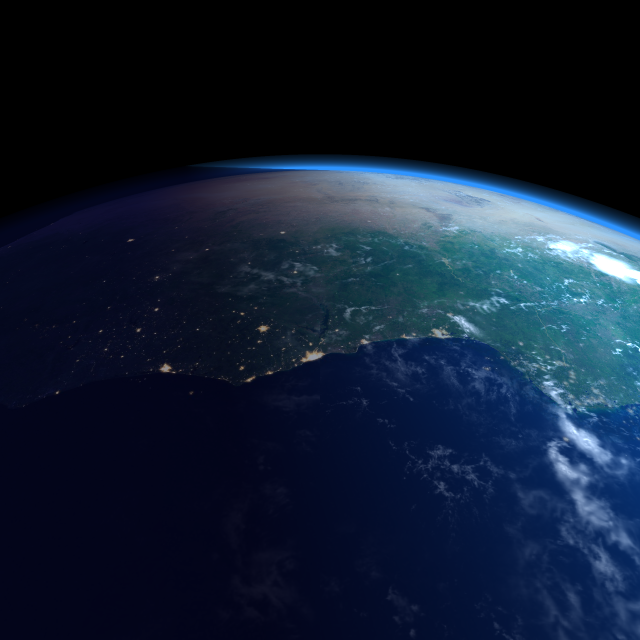
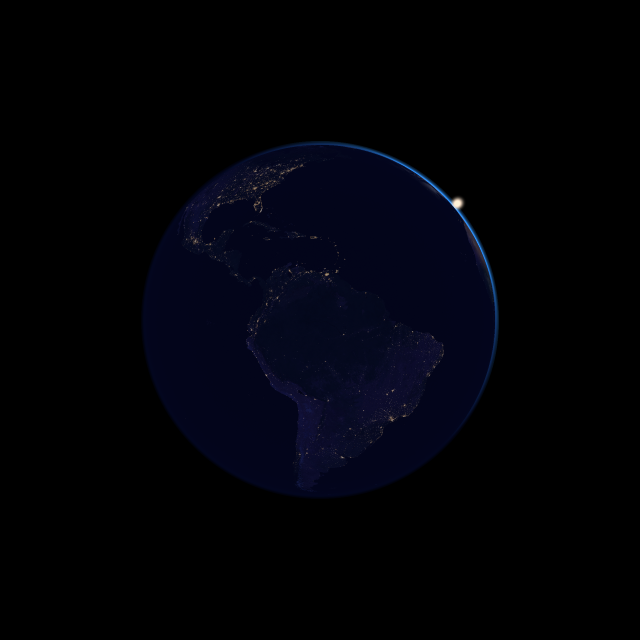
sun

diff --git a/render/renderer.go b/render/renderer.go
@@ -219,8 +219,8 @@ func RenderScene(
 // ApplyAtmosphereOverlay simulates atmospheric scattering along the view ray using ray tracing.
 // It accounts for Rayleigh scattering, Earth's shadow, backlighting, and rays passing through thin air.
 func ApplyAtmosphereOverlay(ctx *RayContext, base colors.Color4) colors.Color4 {
-	const H = 55            // scale height (km)
-	const maxHeight = 120.0 // max atmosphere extent (km)
+	const H = 55.0
+	const maxHeight = 120.0
 	const rayleighStrength = 0.2
 
 	atmoRadius := earth.Radius + maxHeight
@@ -234,65 +234,61 @@ func ApplyAtmosphereOverlay(ctx *RayContext, base colors.Color4) colors.Color4 {
 	// Step 2: Ray-ground intersection
 	hitEarth, tEntryEarth, _ := intersectSphereFull(ctx.Origin, ctx.RayDirection, earth.Radius)
 
-	// Clip to visible atmosphere
 	tMin := math.Max(0, tEntryAtmo)
 	tMax := tExitAtmo
 	if hitEarth && tEntryEarth > 0 && tEntryEarth < tMax {
 		tMax = tEntryEarth
 	}
 	if tMax <= tMin {
-		return base
+		viewDot := Clip(ctx.ViewDotNormal, 0, 1)
+		rim := math.Pow(1.0-viewDot, 3.0) * 0.6
+		return base.Add(ctx.theme.OuterRim.Scale(rim))
 	}
 
 	// Step 3: Shadow intersection
 	hitShadow, tShadowEntry, tShadowExit := IntersectShadowCylinder(ctx.Origin, ctx.RayDirection, ctx.SunDir, earth.Radius)
 
-	// Step 4: Compute total lit length
 	litLen := tMax - tMin
 	unlitLen := 0.0
-
 	if hitShadow {
 		shadowStart := math.Max(tMin, tShadowEntry)
 		shadowEnd := math.Min(tMax, tShadowExit)
 		if shadowEnd > shadowStart {
-			litLen -= (shadowEnd - shadowStart)
-			unlitLen += (shadowEnd - shadowStart)
+			shadowLen := shadowEnd - shadowStart
+			litLen -= shadowLen
+			unlitLen += shadowLen
 		}
 	}
 
-	// Invert and square to exaggerate rim region
-	viewAngle := Clip(ctx.ViewDotNormal, 0.0, 1.0)
-	rimAmount := math.Pow(1.0-Clip(viewAngle, 0.0, 1.0), 3.0) * 0.6
+	viewDot := Clip(ctx.ViewDotNormal, 0, 1)
+	rimAmount := math.Pow(1.0-viewDot, 3.0) * 0.6
 
 	if litLen <= 0 && unlitLen <= 0 {
 		return base.Add(ctx.theme.OuterRim.Scale(rimAmount))
 	}
 
-	// Step 5: Estimate average altitude
 	tMid := (tMin + tMax) * 0.5
 	midPoint := ctx.Origin.Add(ctx.RayDirection.Scale(tMid))
 	avgHeight := midPoint.Norm() - earth.Radius
-
-	// Fade stronger near surface, weaker at high altitudes
-
 	avgDensity := math.Exp(-avgHeight / H)
 
+	// Light amount modulated by density
 	litAmount := math.Log(litLen+unlitLen) * avgDensity * rayleighStrength
 	litAmount = Clip(litAmount, 0.0, 1.0)
 
+	// Blend night/day rim
 	wNight := unlitLen / (litLen + unlitLen + 1e-5)
-	wNight = math.Pow(wNight, 0.5)
 
 	skyColor := ctx.theme.DayRim.Mix(ctx.theme.OuterRim, rimAmount)
 
+	// Optional: Add warm twilight tint
 	if rimAmount > 0.9 {
-		twilight := colors.New(0.9, 0.6, 0.8, 1) // warm purple
+		twilight := colors.New(0.9, 0.6, 0.8, 1.0) // Warm purple-pink
 		skyColor = skyColor.Mix(twilight, rimAmount-0.9)
 	}
 
-	tintColor := skyColor.Mix(ctx.theme.NightRim, wNight)
-
-	return base.Mix(tintColor, litAmount)
+	tint := skyColor.Mix(ctx.theme.NightRim, wNight)
+	return base.Mix(tint, litAmount)
 }
 
 func IntersectShadowCylinder(
@@ -338,6 +334,40 @@ func IntersectShadowCylinder(
 	return true, entry, exit
 }
 
+func RenderSunDisk(cameraPos, rayDir, sunDir vectors.Vec3, base colors.Color4) colors.Color4 {
+	const sunAngularRadius = 0.0092 / 2            // radians
+	const glowAngularRadius = sunAngularRadius * 5 // soft edge
+	const earthRadius = earth.Radius
+
+	// Check if looking toward the sun
+	cosTheta := rayDir.Dot(sunDir)
+	if cosTheta <= 0 {
+		return base // facing away
+	}
+
+	// Check if Earth is in the way
+	hitEarth, tEarth := intersectSphere(cameraPos, rayDir, vectors.Vec3{}, earthRadius)
+	if hitEarth && tEarth > 0 {
+		return base // Earth blocks the sun
+	}
+
+	// Compute angular distance to sun center
+	theta := math.Acos(cosTheta)
+	if theta > glowAngularRadius {
+		return base // too far off-center
+	}
+
+	// Compute intensity using smooth radial falloff
+	t := Smoothstep(glowAngularRadius, sunAngularRadius, theta)
+	intensity := math.Pow(t, 2.0)
+
+	// Color of the sun (adjustable)
+	sunColor := colors.New(1.0, 0.95, 0.9, 1.0)
+
+	// Blend the glow onto the base
+	return base.Mix(sunColor, intensity)
+}
+
 // Update RaytraceScenePixels to apply tone mapping and adjusted saturation
 func RaytraceScenePixels(ctx *RayContext, camera Camera, outSize, supersampling int) *image.NRGBA {
 	W, H := outSize, outSize
@@ -361,12 +391,18 @@ func RaytraceScenePixels(ctx *RayContext, camera Camera, outSize, supersampling 
 				rayDir := camera.ComputeRay(float64(x)+dx, float64(y)+dy, W, H)
 				ctx.SetRayDirection(rayDir)
 
+				hitEarth := ctx.TEarth > 0
 				c := colors.Black()
-				if ctx.T > 0 {
+				if hitEarth {
+					// Earth is hit before Sun
 					c = RenderEarthSurface(ctx)
 				} else {
+					// Background (space)
 					c = ApplyAtmosphereOverlay(ctx, c)
 				}
+
+				// Add solar disk and glow if visible
+				c = RenderSunDisk(ctx.Origin, ctx.RayDirection, ctx.SunDir, c)
 
 				colorAccum = colorAccum.Add(c)
 			}

diff --git a/render/raycontext.go b/render/raycontext.go
@@ -14,7 +14,7 @@ type RayContext struct {
 	AltitudeKm        float64
 	RayDirection      vectors.Vec3
 	DistToCenter      float64
-	T                 float64
+	TEarth            float64
 	HitPoint          vectors.Vec3
 	SurfaceNormal     vectors.Vec3
 	RimLightFactor    float64
@@ -68,10 +68,11 @@ func (c *RayContext) SetRayDirection(rayDirection vectors.Vec3) {
 	}
 
 	// Ray–sphere intersection with Earth (spherical).
-	c.T = intersectSphere(c.Origin, c.RayDirection, earth.Radius)
+	hit, t := intersectSphere(c.Origin, c.RayDirection, vectors.Zero(), earth.Radius)
+	c.TEarth = t
 
-	if c.T >= 0 {
-		c.HitPoint = c.Origin.Add(c.RayDirection.Scale(c.T))
+	if hit && c.TEarth >= 0 {
+		c.HitPoint = c.Origin.Add(c.RayDirection.Scale(c.TEarth))
 		c.SurfaceNormal = c.HitPoint.Normalize()
 		c.SunLightIntensity = c.SurfaceNormal.Dot(c.SunDir)
 		c.ViewDotNormal = -c.SurfaceNormal.Dot(c.RayDirection)
@@ -87,8 +88,8 @@ func (c *RayContext) SetRayDirection(rayDirection vectors.Vec3) {
 	c.InsideAtmosphere = hitsAtmo
 	if hitsAtmo {
 		// Clamp exit point to before planet surface
-		if c.T > 0 && t1 > c.T {
-			t1 = c.T
+		if c.TEarth > 0 && t1 > c.TEarth {
+			t1 = c.TEarth
 		}
 		c.AtmosphereEntryT = math.Max(t0, 0.0)
 		c.AtmosphereExitT = t1
@@ -99,17 +100,17 @@ func (c *RayContext) SetRayDirection(rayDirection vectors.Vec3) {
 
 }
 
-// IntersectEarth calculates the intersection of a ray (O + t*D) with a sphere of radius r.
-// Returns the closest positive t, or -1.0 if there is no intersection.
-func intersectSphere(O, D vectors.Vec3, r float64) float64 {
-	// b = 2*O·D, c = O·O - r^2, solve t^2 + b t + c = 0
-	OdotD := O.Dot(D)
-	b := 2.0 * OdotD
-	c := O.Dot(O) - r*r
+func intersectSphere(O, D, C vectors.Vec3, r float64) (bool, float64) {
+	// Shift into sphere-local coordinates
+	L := O.Sub(C)
+
+	// Solve t^2 + 2*(L·D)t + (L·L - r^2) = 0
+	b := 2.0 * L.Dot(D)
+	c := L.Dot(L) - r*r
 
 	discriminant := b*b - 4.0*c
 	if discriminant < 0 {
-		return -1.0
+		return false, 0
 	}
 
 	sqrtDisc := math.Sqrt(discriminant)
@@ -118,17 +119,17 @@ func intersectSphere(O, D vectors.Vec3, r float64) float64 {
 
 	if t1 > 0 && t2 > 0 {
 		if t1 < t2 {
-			return t1
+			return true, t1
 		}
-		return t2
+		return true, t2
 	}
 	if t1 > 0 {
-		return t1
+		return true, t1
 	}
 	if t2 > 0 {
-		return t2
+		return true, t2
 	}
-	return -1.0
+	return false, 0
 }
 
 func intersectSphereFull(origin, dir vectors.Vec3, radius float64) (bool, float64, float64) {

diff --git a/main.go b/main.go
@@ -27,10 +27,10 @@ type config struct {
 func defineFlags() config {
 	return config{
 		lat:  flag.Float64("lat", 0.0, "Camera latitude in degrees"),
-		lon:  flag.Float64("lon", 0.0, "Camera longitude in degrees"),
-		alt:  flag.Float64("alt", 880.0, "Camera altitude in kilometers"),
+		lon:  flag.Float64("lon", 295.0, "Camera longitude in degrees"),
+		alt:  flag.Float64("alt", 8880.0, "Camera altitude in kilometers"),
 		fov:  flag.Float64("fov", 80.0, "Camera field of view in degrees"),
-		tilt: flag.Float64("tilt", 40.0, "Camera tilt in degrees"),
+		tilt: flag.Float64("tilt", 0.0, "Camera tilt in degrees"),
 
 		size:        flag.Int("size", 640, "Output image size (width/height in pixels)"),
 		supersample: flag.Int("supersample", 3, "Supersampling factor (higher is slower but smoother)"),
@@ -93,6 +93,7 @@ func main() {
 		renderTime = time.Now()
 	}
 
+	renderTime, _ = time.Parse(time.RFC3339, "2025-08-08T05:45:00Z")
 	sunDir := earth.SunDirectionECEF(renderTime)
 	camera := render.NewCamera(*cfg.lat, *cfg.lon, *cfg.alt, *cfg.fov, *cfg.tilt)
 
@@ -102,7 +103,6 @@ func main() {
 		*cfg.size,
 		*cfg.supersample,
 		render.Theme{
-			// DayRim:   colors.New(0.529, 0.808, 0.980, 0.5),
 			DayRim:   colors.New(0.25, 0.60, 1.00, 2.0), // Slightly deeper sky blue
 			NightRim: colors.New(0.05, 0.07, 0.20, 0.5),
 			OuterRim: colors.New(0.6, 0.9, 1.2, 2.0).Scale(0.4), // Softer outer glow

diff --git a/vectors/vec3.go b/vectors/vec3.go
@@ -7,6 +7,10 @@ type Vec3 struct {
 	X, Y, Z float64
 }
 
+func Zero() Vec3 {
+	return Vec3{X: 0.0, Y: 0.0, Z: 0.0}
+}
+
 // Add returns v + o.
 func (v Vec3) Add(o Vec3) Vec3 {
 	return Vec3{v.X + o.X, v.Y + o.Y, v.Z + o.Z}
